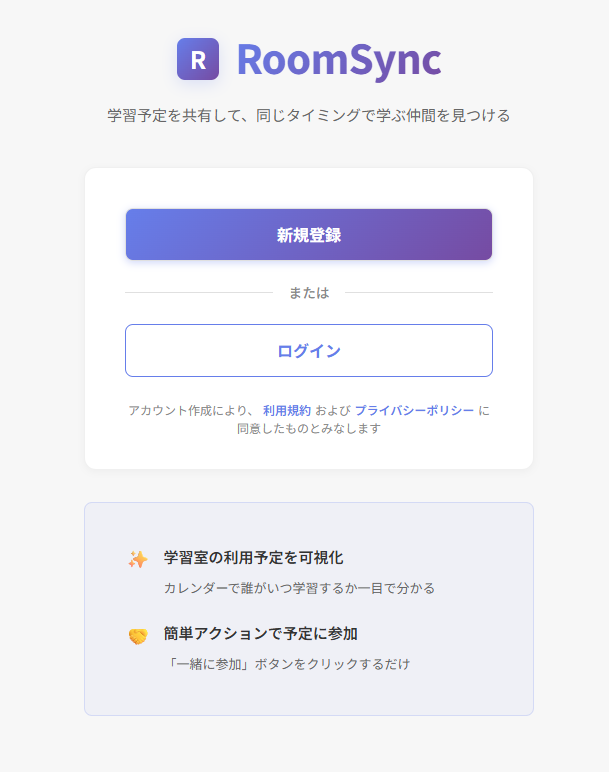
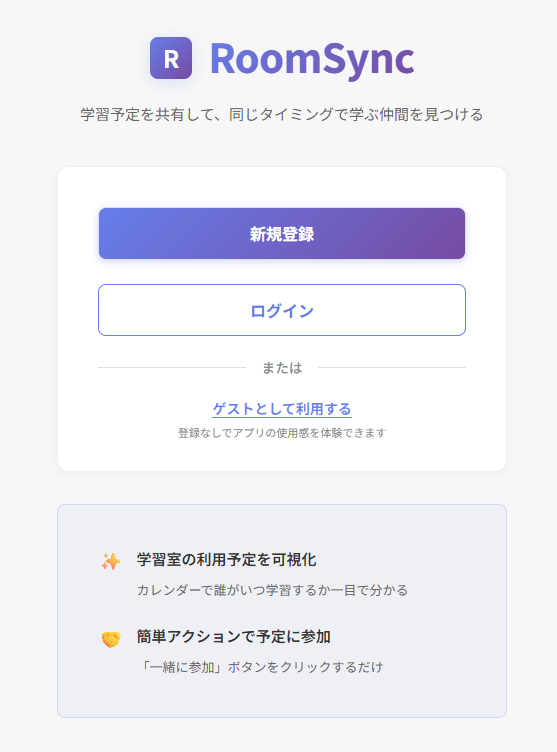
docs: README・使用イメージの更新

diff --git a/README.md b/README.md
@@ -8,7 +8,8 @@
 RoomSyncは、オンライン学習の孤独を解消するための学習スケジュール共有プラットフォームです。  
 カレンダーでオンライン学習室の入室予定を共有して、「一緒に参加」ボタンで気軽に学習仲間とつながることができます。
 
-**アプリURL**： https://roomsync-tsuki-5436df87bc23.herokuapp.com/
+**🌐アプリURL**： https://roomsync-tsuki-5436df87bc23.herokuapp.com/  
+> 💡**Tip** ゲストログインでユーザー登録なしでアプリの使用感を体験できます
 
 #### コンセプト
 「話さなくても、頑張りが見える。気軽につながる学習環境づくり」
@@ -57,6 +58,7 @@ RoomSyncは、**学習予定を共有し、気軽に参加し合える仕組み*
 |機能|詳細|
 |---|---|
 |ユーザー認証| Deviseによる安全な認証システム |
+|ゲストログイン| ユーザー登録なしでアプリの使用感を体験 |
 |ルーム管理| プライベートな学習ルームの作成・参加 |
 |スケジュール作成| 学習予定のCRUD操作 |
 |カレンダー表示| 月間カレンダーでルーム内の予定を可視化 |
@@ -169,7 +171,7 @@ erDiagram
 
 #### パフォーマンス
 - 適切なインデックス設計でクエリ速度を向上
-- BulletによるN+1問題の検出
+- BulletによるN+1問題の検出・改善
 
 #### セキュリティ
 - Deviseによる安全な認証と適切な権限管理

diff --git a/docs/manual/page_image.md b/docs/manual/page_image.md
@@ -21,6 +21,10 @@
   |:---:|
   |<img src="../images/mypage-1.png" width="800px" alt="マイページ">|
 
+  |マイページ/ゲストユーザー|
+  |:---:|
+  |<img src="../images/mypage-guest.png" width="800px" alt="マイページ（ゲストログイン）">|
+
   |マイページ/作成した予定一覧|
   |:---:|
   |<img src="../images/mypage-2.png" width="800px" alt="作成した予定一覧ページ">|
